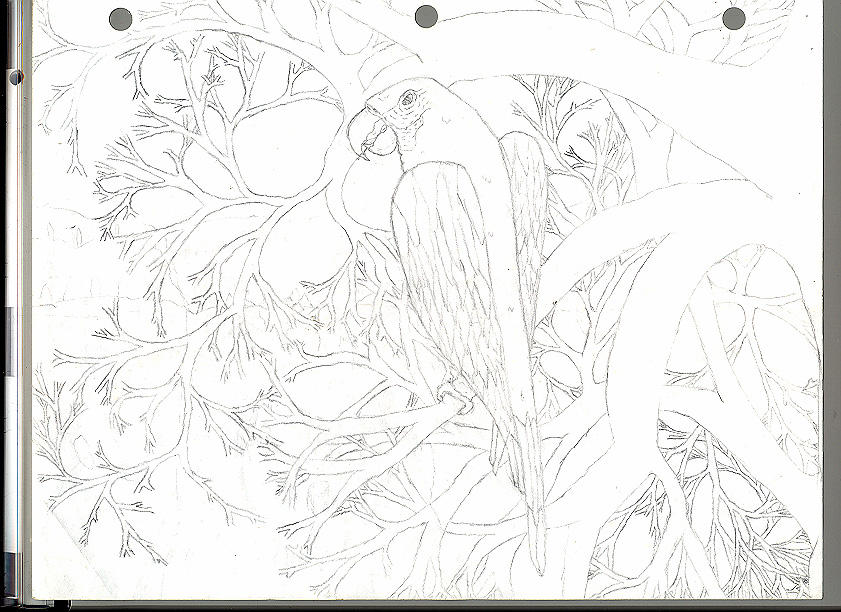
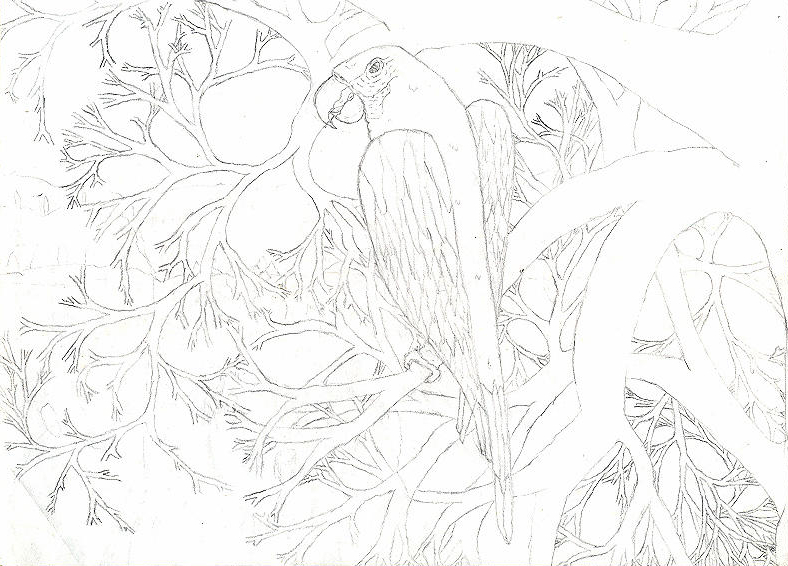
format call to action and edit photos
finished css and edited fang and parrot

On branch main
Your branch is up to date with 'origin/main'.

Changes to be committed:
	modified:   CSS/style.css
	modified:   images/parrot_sketch.jpg
	modified:   images/white_fang.jpg
	modified:   index.html

diff --git a/CSS/style.css b/CSS/style.css
@@ -7,6 +7,7 @@ body {
     /* font */
     font-family: "Roboto", sans-serif;
     font-optical-sizing: auto;
+    overflow-x: hidden;
 }
 
 /* Hero */
@@ -61,7 +62,9 @@ a {
 .h_body_align {
     display: flex;
     flex-direction: column;
-    width: 300px;
+    justify-content: flex-start;
+    align-items: baseline;
+    width: 50vh;
 }
 
 .h_body_align h1 {
@@ -76,11 +79,20 @@ a {
     color: #e5e7eb
 }
 
-.h_body_align button {
-    background: #3882f6;
-    color: #f9faf8;
+.h_body_align .hero_button,
+.c2a_button {
     font-size: large;
     font-family: "Roboto", sans-serif;
+    text-align: center;
+    padding: 5px 25px 5px 25px;
+    border: 0;
+    box-shadow: none;
+    border-radius: 5px;
+}
+
+.h_body_align .hero_button {
+    background: #3882f6;
+    color: #f9faf8;
 }
 
 /* body */
@@ -141,7 +153,7 @@ a {
     display: flex;
     justify-content: end;
     /* align-self: flex-end;  */
-    font-size: 25px;
+    font-size: 24px;
     font-weight: 500;
 }
 
@@ -149,6 +161,43 @@ a {
 
 .call_main {
     margin: 20px;
+    padding: 80px 30px 80px 30px;
+}
+
+.call {
+    display: flex;
+    justify-content: space-around;
+    align-items: center;
+    background-color: #3882f6;
+    color:#e5e7eb;
+    padding: 50px 100px;
+    border-radius: 15px;
+    width: 130vh;
+}
+
+.call h3 {
+    font-size: 25px;
+    margin: 0;
+}
+
+.call_text {
+    display: flex;
+    flex-direction: column;
+    
+}
+
+.call_text p {
+    font-size: 20px;
+    font-weight: 200;
+    margin-top: 5px;
+}
+
+.c2a_button {
+    background-color: #3882f6;
+    border: 2px solid #f9faf8;
+    /* border-color: #f9faf8; */
+    color:#f9faf8;
+    padding: 5px 25px;
 }
 
 /* footer */

diff --git a/index.html b/index.html
@@ -26,7 +26,7 @@
             <div class="h_body_align">
                 <h1>Sign up for my newsletter!</h1>
                 <p>For the latest on my escapades into the fantastical and exclusive shorts please subscribe by hitting the button bellow</p>
-                <button>Sign up</button>
+                <button type="button" class="hero_button">Sign up</button>
             </div>
             <img class="hero_image" alt="Dovern sketch" src="images/dovern.jpg">
             
@@ -66,9 +66,11 @@
 
     <div class="call_main">
         <div class="call">
-           <h3>Enter a world of faith and mystery</h3>
-           <p>Join my newsletter and recieve bi-monthly shorts and articles!</p>
-           <button>Sign up</button>
+            <div class="call_text">
+                <h3>Enter a world of faith and mystery</h3>
+                <p>Join my newsletter and receive bi-monthly shorts and articles!</p>
+            </div>
+           <button class="c2a_button">Sign up</button>
         </div>
     </div>
     <div class="footer">
